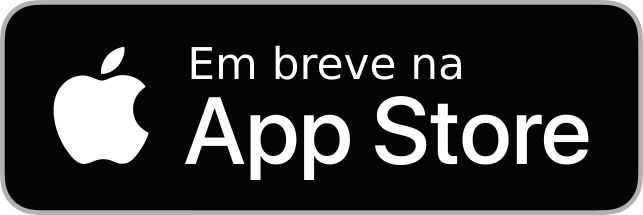
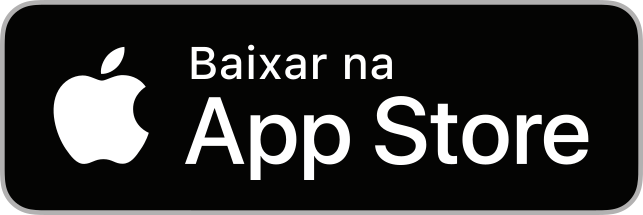
add ios badge and deep link to footer

Changed region(s): [[0.311, 0.1953, 0.7154, 0.3907]]

diff --git a/site/layouts/partials/footer.html b/site/layouts/partials/footer.html
@@ -29,7 +29,7 @@
 			<div class="mb3">
 				<h3 class="f4 b lh-title mb1 primary">{{ T "find-out-more" }}</h3>
 				<ul>
-					<li><a href="https://play.google.com/store/apps/details?id=com.wevond.vondme&utm_source=landing&utm_campaign=app_promotion&pcampaignid=pcampaignidMKT-Other-global-all-co-prtnr-py-PartBadge-Mar2515-1" target="_blank" class="link">{{ T "last-offers" }}</a></li>
+					<li><a href="https://vond.page.link/app" target="_blank" class="link">{{ T "last-offers" }}</a></li>
 					<li><a href="/{{ $lang }}/contact" class="link">{{ T "get-in-touch" }}</a></li>
 				</ul>
 			</div>
@@ -55,15 +55,20 @@
                 >
                   <img 
                     alt="{{ T "google-play" }}"
-                    src="/images/uploads/get-it-on-google-play_{{ cond (eq .Language.Lang "pt") "pt-br" "en" }}.png"
+                    src="/images/uploads/get-it-on-google-play_{{ cond (eq .Language.Lang "pt") "pt-br" "us" }}.png"
                   />
                 </a>
               </div>
               <div class="ml1-ns">
-                <img
-                  alt="{{ T "app-store" }}"
-                  src="/images/uploads/download-on-the-app-store_{{ cond (eq .Language.Lang "pt") "pt-br" "en" }}.png"
-                />
+                <a
+                  href="https://apps.apple.com/us/app/vondme-marketplace/id1484868517"
+                  target="_blank"
+                >
+                  <img
+                    alt="{{ T "app-store" }}"
+                    src="/images/uploads/download-on-the-app-store_{{ cond (eq .Language.Lang "pt") "pt-br" "us" }}.png"
+                  />
+                </a>
               </div>
             </div>
           </div>
